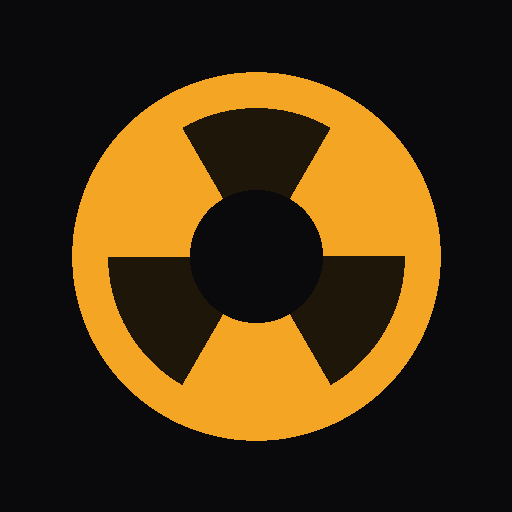
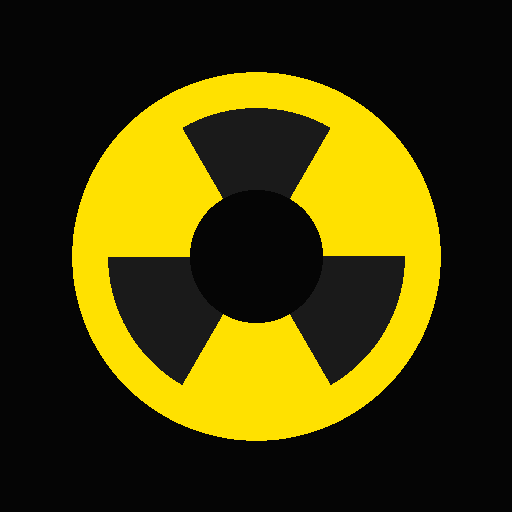
Refonte visuelle façon identité Nikon (noir + jaune, angles nets, typo technique)
Nouvelle identité visuelle sur tout le site, inspirée du langage de marque
Nikon plutôt que d'un style "app grand public" :
- Accent jaune Nikon (#ffe100) à la place de l'orange ambre, sur fond noir
  neutre plus profond (suppression de la dominante bleutée).
- Échelle de rayons resserrée (--radius-*) : cartes et boutons ont des
  angles nets plutôt qu'arrondis ; les badges/puces numérotées passent de
  pastilles rondes à des tags rectangulaires (sauf les cercles de flou de
  profondeur de champ du Triangle, qui restent ronds car ils représentent
  un vrai bokeh optique).
- Typo Oswald (condensée, majuscules, letter-spacing) pour tous les titres
  de section, en plus du fond Inter pour le corps de texte.
- Police monospace tabulaire (.font-readout) sur les valeurs d'ouverture/
  vitesse/ISO du Triangle et du Calculateur, pour un rendu façon afficheur
  de boîtier.
- Navigation refaite en barre technique : indicateur par soulignement/
  onglet au lieu de pastille pleine, labels en majuscules espacées.
- Repères d'angle façon cadre de viseur sur le hero de l'accueil.
- Icônes PWA régénérées avec la nouvelle palette.

Claude-Session: https://claude.ai/code/session_019rH7qcXGqkZ53xe7UJvZwY

Changed region(s): [[0.125, 0.125, 0.875, 0.875]]

diff --git a/src/index.css b/src/index.css
@@ -2,20 +2,34 @@
 
 @theme {
   --font-sans: "Inter", system-ui, "Segoe UI", Roboto, sans-serif;
-  --color-ink-950: #0a0a0d;
-  --color-ink-900: #111116;
-  --color-ink-850: #16171e;
-  --color-ink-800: #1c1d26;
-  --color-ink-700: #2a2b36;
-  --color-ink-600: #3d3f4d;
-  --color-ink-400: #7a7d90;
-  --color-ink-300: #a6a8b8;
-  --color-ink-100: #e8e8ee;
-  --color-amber-400: #f5a524;
-  --color-amber-500: #e8940f;
-  --color-signal-blue: #3b9dff;
+  --font-display: "Oswald", "Inter", system-ui, sans-serif;
+  --font-readout: ui-monospace, "SF Mono", "Cascadia Code", Consolas, monospace;
+
+  /* Noir neutre "boîtier", sans dominante bleutée */
+  --color-ink-950: #050505;
+  --color-ink-900: #0d0d0d;
+  --color-ink-850: #131313;
+  --color-ink-800: #1a1a1a;
+  --color-ink-700: #272727;
+  --color-ink-600: #3c3c3c;
+  --color-ink-400: #8c8c8c;
+  --color-ink-300: #adadad;
+  --color-ink-100: #f2f2f2;
+
+  /* Jaune Nikon — l'accent de marque */
+  --color-amber-400: #ffe100;
+  --color-amber-500: #e0c700;
+  --color-signal-blue: #2f8fe0;
   --color-signal-green: #34d399;
-  --color-signal-red: #f75353;
+  --color-signal-red: #e2001a;
+
+  /* Rayons resserrés : angles nets plutôt qu'arrondis "app grand public" */
+  --radius-sm: 0.0625rem;
+  --radius-md: 0.125rem;
+  --radius-lg: 0.1875rem;
+  --radius-xl: 0.25rem;
+  --radius-2xl: 0.3125rem;
+  --radius-3xl: 0.375rem;
 }
 
 html {
@@ -34,6 +48,17 @@ body {
   -webkit-tap-highlight-color: transparent;
 }
 
+h1 {
+  font-family: var(--font-display);
+}
+
+h2,
+h3 {
+  font-family: var(--font-display);
+  text-transform: uppercase;
+  letter-spacing: 0.01em;
+}
+
 ::selection {
   background: var(--color-amber-400);
   color: var(--color-ink-950);
@@ -47,30 +72,64 @@ body {
   scrollbar-width: none;
 }
 
+/* Lecture chiffrée façon afficheur de boîtier (ouverture / vitesse / ISO) */
+.font-readout {
+  font-family: var(--font-readout);
+  font-variant-numeric: tabular-nums;
+  letter-spacing: -0.02em;
+}
+
+/* Repères d'angle façon cadre de viseur */
+.viewfinder-corners {
+  position: relative;
+}
+.viewfinder-corners::before,
+.viewfinder-corners::after,
+.viewfinder-corners > .vf-tr,
+.viewfinder-corners > .vf-br {
+  content: "";
+  position: absolute;
+  width: 18px;
+  height: 18px;
+  border-color: var(--color-amber-400);
+  opacity: 0.8;
+}
+.viewfinder-corners::before {
+  top: -1px;
+  left: -1px;
+  border-top: 2px solid var(--color-amber-400);
+  border-left: 2px solid var(--color-amber-400);
+}
+.viewfinder-corners::after {
+  bottom: -1px;
+  right: -1px;
+  border-bottom: 2px solid var(--color-amber-400);
+  border-right: 2px solid var(--color-amber-400);
+}
+
 input[type="range"] {
   -webkit-appearance: none;
   appearance: none;
-  height: 6px;
-  border-radius: 999px;
+  height: 3px;
+  border-radius: 1px;
   background: var(--color-ink-700);
   outline: none;
 }
 input[type="range"]::-webkit-slider-thumb {
   -webkit-appearance: none;
   appearance: none;
-  width: 22px;
-  height: 22px;
-  border-radius: 999px;
+  width: 10px;
+  height: 24px;
+  border-radius: 2px;
   background: var(--color-amber-400);
-  border: 3px solid var(--color-ink-950);
-  box-shadow: 0 0 0 1px rgba(245, 165, 36, 0.5);
+  border: 1px solid var(--color-ink-950);
   cursor: pointer;
 }
 input[type="range"]::-moz-range-thumb {
-  width: 22px;
-  height: 22px;
-  border-radius: 999px;
+  width: 10px;
+  height: 24px;
+  border-radius: 2px;
   background: var(--color-amber-400);
-  border: 3px solid var(--color-ink-950);
+  border: 1px solid var(--color-ink-950);
   cursor: pointer;
 }

diff --git a/src/components/Layout.tsx b/src/components/Layout.tsx
@@ -12,25 +12,27 @@ const NAV_ITEMS = [
 
 function navLinkClass(isActive: boolean) {
   return [
-    "flex items-center gap-2 rounded-full px-4 py-2 text-sm font-medium transition-colors",
+    "relative flex items-center gap-2 border-b-2 px-3 py-2 text-xs font-semibold uppercase tracking-wider transition-colors",
     isActive
-      ? "bg-amber-400 text-ink-950"
-      : "text-ink-300 hover:text-ink-100 hover:bg-ink-800",
+      ? "border-amber-400 text-ink-100"
+      : "border-transparent text-ink-400 hover:border-ink-600 hover:text-ink-100",
   ].join(" ");
 }
 
 export default function Layout() {
   return (
     <div className="min-h-dvh flex flex-col bg-ink-950 text-ink-100">
-      <header className="sticky top-0 z-40 border-b border-ink-800/80 bg-ink-950/90 backdrop-blur">
+      <header className="sticky top-0 z-40 border-b border-ink-800 bg-ink-950/95 backdrop-blur">
         <div className="mx-auto flex max-w-6xl items-center justify-between gap-4 px-4 py-3 sm:px-6">
           <NavLink to="/" className="flex items-center gap-2.5 shrink-0">
-            <span className="grid h-9 w-9 place-items-center rounded-xl bg-amber-400 text-lg font-black text-ink-950">
+            <span className="grid h-9 w-9 place-items-center rounded-sm bg-amber-400 font-display text-lg font-bold text-ink-950">
               PB
             </span>
             <span className="hidden flex-col leading-tight sm:flex">
-              <span className="text-sm font-semibold text-ink-100">Photo by Bastien</span>
-              <span className="text-xs text-ink-400">Guide de réglages sur le terrain</span>
+              <span className="font-display text-sm font-semibold uppercase tracking-wide text-ink-100">
+                Photo by Bastien
+              </span>
+              <span className="text-[11px] text-ink-400">Guide de réglages sur le terrain</span>
             </span>
           </NavLink>
           <nav className="hidden items-center gap-1 md:flex">
@@ -53,7 +55,7 @@ export default function Layout() {
         <Outlet />
       </main>
 
-      <footer className="hidden border-t border-ink-800/80 py-6 text-center text-xs text-ink-400 md:block">
+      <footer className="hidden border-t border-ink-800 py-6 text-center text-xs text-ink-400 md:block">
         Photo by Bastien — repères de réglages, pas des lois de la physique. La lumière réelle varie toujours un peu.
       </footer>
 
@@ -69,8 +71,8 @@ export default function Layout() {
               end={item.end}
               className={({ isActive }) =>
                 [
-                  "flex flex-col items-center gap-0.5 px-0.5 py-2.5 text-[10px] font-medium",
-                  isActive ? "text-amber-400" : "text-ink-400",
+                  "relative flex flex-col items-center gap-0.5 border-t-2 px-0.5 py-2.5 text-[10px] font-medium",
+                  isActive ? "border-amber-400 text-amber-400" : "border-transparent text-ink-400",
                 ].join(" ")
               }
             >

diff --git a/src/pages/Calculator.tsx b/src/pages/Calculator.tsx
@@ -144,7 +144,7 @@ export default function Calculator() {
               key={opt.id}
               onClick={() => setSolveFor(opt.id)}
               className={[
-                "rounded-full px-4 py-2 text-sm font-medium transition",
+                "rounded-sm px-4 py-2 text-sm font-semibold uppercase tracking-wide transition",
                 solveFor === opt.id
                   ? "bg-amber-400 text-ink-950"
                   : "bg-ink-800 text-ink-300 hover:text-ink-100",
@@ -201,7 +201,7 @@ export default function Calculator() {
 
       <section className="rounded-2xl border border-amber-400/30 bg-amber-400/5 p-6">
         <h2 className="text-base font-semibold text-ink-100">Réglage recommandé</h2>
-        <p className="mt-2 text-2xl font-bold text-amber-400">
+        <p className="font-readout mt-2 text-2xl font-bold text-amber-400">
           {formatAperture(solveFor === "aperture" ? (result.value as number) : aperture)} ·{" "}
           {formatShutter(solveFor === "shutter" ? (result.value as number) : shutter)} ·{" "}
           {formatIso(solveFor === "iso" ? (result.value as number) : iso)}
@@ -253,12 +253,14 @@ function SliderCard({
       <div className="flex items-center justify-between">
         <h3 className="text-sm font-semibold text-ink-100">{title}</h3>
         {resultBadge && (
-          <span className="rounded-full bg-amber-400 px-2 py-0.5 text-[10px] font-bold uppercase text-ink-950">
+          <span className="rounded-sm bg-amber-400 px-2 py-0.5 text-[10px] font-bold uppercase text-ink-950">
             Calculé
           </span>
         )}
       </div>
-      <p className="text-2xl font-bold text-ink-100">{resultBadge ? resultValue : value}</p>
+      <p className="font-readout text-2xl font-bold text-ink-100">
+        {resultBadge ? resultValue : value}
+      </p>
       <input
         type="range"
         min={min}

diff --git a/src/components/CameraDiagram.tsx b/src/components/CameraDiagram.tsx
@@ -59,7 +59,7 @@ export default function CameraDiagram({ zone }: { zone: CameraZone }) {
             onClick={() => setActive(c.id)}
             style={{ left: `${c.x}%`, top: `${c.y}%` }}
             className={[
-              "absolute flex h-6 w-6 -translate-x-1/2 -translate-y-1/2 items-center justify-center rounded-full border text-[11px] font-bold transition",
+              "absolute flex h-6 w-6 -translate-x-1/2 -translate-y-1/2 items-center justify-center rounded-sm border text-[11px] font-bold transition",
               c.id === active
                 ? "border-amber-400 bg-amber-400 text-ink-950 scale-110"
                 : "border-ink-600 bg-ink-800 text-ink-200 hover:border-amber-400/60",
@@ -69,7 +69,7 @@ export default function CameraDiagram({ zone }: { zone: CameraZone }) {
             {i + 1}
           </button>
         ))}
-        <span className="absolute left-3 top-3 rounded-full bg-ink-950/80 px-2 py-0.5 text-[10px] font-semibold uppercase tracking-wide text-ink-400">
+        <span className="absolute left-3 top-3 rounded-sm bg-ink-950/80 px-2 py-0.5 text-[10px] font-semibold uppercase tracking-wide text-ink-400">
           {ZONE_TITLES[zone]} · schéma simplifié
         </span>
       </div>
@@ -93,7 +93,7 @@ export default function CameraDiagram({ zone }: { zone: CameraZone }) {
                 c.id === active ? "bg-ink-800 text-amber-400" : "text-ink-400 hover:text-ink-100",
               ].join(" ")}
             >
-              <span className="flex h-4 w-4 shrink-0 items-center justify-center rounded-full bg-ink-800 text-[10px] font-bold">
+              <span className="flex h-4 w-4 shrink-0 items-center justify-center rounded-sm bg-ink-800 text-[10px] font-bold">
                 {i + 1}
               </span>
               {c.label}

diff --git a/src/pages/Triangle.tsx b/src/pages/Triangle.tsx
@@ -74,7 +74,7 @@ export default function Triangle() {
         <div className="flex flex-col gap-4 rounded-2xl border border-ink-800 bg-ink-900 p-5">
           <div className="flex items-center justify-between">
             <h2 className="text-sm font-semibold text-ink-100">Ouverture (diaphragme)</h2>
-            <span className="rounded-full bg-ink-800 px-3 py-1 text-sm font-bold text-amber-400">
+            <span className="font-readout rounded-sm bg-ink-800 px-3 py-1 text-sm font-bold text-amber-400">
               {formatAperture(aperture)}
             </span>
           </div>
@@ -108,7 +108,7 @@ export default function Triangle() {
         <div className="flex flex-col gap-4 rounded-2xl border border-ink-800 bg-ink-900 p-5">
           <div className="flex items-center justify-between">
             <h2 className="text-sm font-semibold text-ink-100">Vitesse d'obturation</h2>
-            <span className="rounded-full bg-ink-800 px-3 py-1 text-sm font-bold text-amber-400">
+            <span className="font-readout rounded-sm bg-ink-800 px-3 py-1 text-sm font-bold text-amber-400">
               {formatShutter(shutter)}
             </span>
           </div>
@@ -148,7 +148,7 @@ export default function Triangle() {
         <div className="flex flex-col gap-4 rounded-2xl border border-ink-800 bg-ink-900 p-5">
           <div className="flex items-center justify-between">
             <h2 className="text-sm font-semibold text-ink-100">ISO (sensibilité)</h2>
-            <span className="rounded-full bg-ink-800 px-3 py-1 text-sm font-bold text-amber-400">
+            <span className="font-readout rounded-sm bg-ink-800 px-3 py-1 text-sm font-bold text-amber-400">
               {formatIso(iso)}
             </span>
           </div>

diff --git a/src/pages/Home.tsx b/src/pages/Home.tsx
@@ -31,8 +31,8 @@ const QUICK_LINKS = [
 export default function Home() {
   return (
     <div className="flex flex-col gap-14">
-      <section className="pt-4 sm:pt-10">
-        <p className="mb-3 inline-flex items-center gap-2 rounded-full bg-ink-800 px-3 py-1 text-xs font-medium text-amber-400">
+      <section className="viewfinder-corners pb-2 pl-5 pt-4 sm:pt-10">
+        <p className="mb-3 inline-flex items-center gap-2 rounded-sm bg-ink-800 px-3 py-1 text-xs font-semibold uppercase tracking-wider text-amber-400">
           Optimisé Nikon Z6III · utilisable hors ligne sur le terrain
         </p>
         <h1 className="max-w-2xl text-4xl font-bold tracking-tight text-ink-100 sm:text-5xl">
@@ -47,13 +47,13 @@ export default function Home() {
         <div className="mt-7 flex flex-wrap gap-3">
           <Link
             to="/debuter"
-            className="rounded-full bg-amber-400 px-6 py-3 text-sm font-semibold text-ink-950 transition hover:bg-amber-500"
+            className="rounded-sm bg-amber-400 px-6 py-3 text-sm font-bold uppercase tracking-wide text-ink-950 transition hover:bg-amber-500"
           >
             🧭 Je débute, guide-moi →
           </Link>
           <Link
             to="/calculateur"
-            className="rounded-full border border-ink-700 px-6 py-3 text-sm font-semibold text-ink-100 transition hover:border-ink-600 hover:bg-ink-800"
+            className="rounded-sm border border-ink-700 px-6 py-3 text-sm font-bold uppercase tracking-wide text-ink-100 transition hover:border-ink-600 hover:bg-ink-800"
           >
             Ouvrir le calculateur
           </Link>

diff --git a/src/pages/BeginnerGuide.tsx b/src/pages/BeginnerGuide.tsx
@@ -160,7 +160,7 @@ export default function BeginnerGuide() {
           />
           <Link
             to="/boitier"
-            className="inline-flex w-fit items-center gap-2 rounded-full bg-ink-800 px-4 py-2 text-xs font-semibold text-amber-400 hover:bg-ink-700"
+            className="inline-flex w-fit items-center gap-2 rounded-sm bg-ink-800 px-4 py-2 text-xs font-semibold text-amber-400 hover:bg-ink-700"
           >
             🎛 Voir où se trouve le sélecteur de mode et activer l'Auto ISO →
           </Link>
@@ -302,7 +302,7 @@ export default function BeginnerGuide() {
             { day: "Jour 7", text: "Mémoriser les commandes physiques avec le guide du boîtier, et combler les trous de vocabulaire avec le glossaire.", to: "/boitier" },
           ].map((item, i) => (
             <li key={i} className="flex gap-3 rounded-xl border border-ink-800 bg-ink-900 p-4">
-              <span className="flex h-8 w-8 shrink-0 items-center justify-center rounded-full bg-amber-400 text-xs font-bold text-ink-950">
+              <span className="flex h-8 w-8 shrink-0 items-center justify-center rounded-sm bg-amber-400 text-xs font-bold text-ink-950">
                 {i + 1}
               </span>
               <div>

diff --git a/src/pages/ScenarioDetail.tsx b/src/pages/ScenarioDetail.tsx
@@ -32,7 +32,7 @@ export default function ScenarioDetail() {
         </p>
         <Link
           to={calculatorLink}
-          className="mt-4 inline-flex items-center gap-2 rounded-full bg-amber-400 px-5 py-2.5 text-sm font-semibold text-ink-950 hover:bg-amber-500"
+          className="mt-4 inline-flex items-center gap-2 rounded-sm bg-amber-400 px-5 py-2.5 text-sm font-semibold text-ink-950 hover:bg-amber-500"
         >
           🧮 Ouvrir avec ces réglages préremplis
         </Link>
@@ -71,7 +71,7 @@ export default function ScenarioDetail() {
         <ol className="mt-4 flex flex-col gap-3">
           {scenario.steps.map((step, i) => (
             <li key={i} className="flex gap-3 text-sm leading-relaxed text-ink-300">
-              <span className="flex h-6 w-6 shrink-0 items-center justify-center rounded-full bg-amber-400 text-xs font-bold text-ink-950">
+              <span className="flex h-6 w-6 shrink-0 items-center justify-center rounded-sm bg-amber-400 text-xs font-bold text-ink-950">
                 {i + 1}
               </span>
               {step}

diff --git a/index.html b/index.html
@@ -5,10 +5,16 @@
     <link rel="icon" type="image/png" href="/icon-192.png" />
     <link rel="apple-touch-icon" href="/icon-192.png" />
     <meta name="viewport" content="width=device-width, initial-scale=1.0, viewport-fit=cover" />
-    <meta name="theme-color" content="#0a0a0d" />
+    <meta name="theme-color" content="#050505" />
     <meta
       name="description"
       content="Triangle d'exposition, calculateur de réglages et tutos photo par situation (portrait, rue, rallye auto, paysage, basse lumière), spécial Nikon Z6III."
+    />
+    <link rel="preconnect" href="https://fonts.googleapis.com" />
+    <link rel="preconnect" href="https://fonts.gstatic.com" crossorigin />
+    <link
+      href="https://fonts.googleapis.com/css2?family=Oswald:wght@500;600;700&display=swap"
+      rel="stylesheet"
     />
     <title>Photo by Bastien — Guide de réglages</title>
   </head>

diff --git a/src/components/StepList.tsx b/src/components/StepList.tsx
@@ -3,7 +3,7 @@ export default function StepList({ steps }: { steps: string[] }) {
     <ol className="flex flex-col gap-3">
       {steps.map((step, i) => (
         <li key={i} className="flex gap-3 text-sm leading-relaxed text-ink-300">
-          <span className="flex h-6 w-6 shrink-0 items-center justify-center rounded-full bg-amber-400 text-xs font-bold text-ink-950">
+          <span className="flex h-6 w-6 shrink-0 items-center justify-center rounded-sm bg-amber-400 text-xs font-bold text-ink-950">
             {i + 1}
           </span>
           <span>{step}</span>

diff --git a/src/pages/NotFound.tsx b/src/pages/NotFound.tsx
@@ -6,7 +6,7 @@ export default function NotFound() {
       <span className="text-4xl">📷💨</span>
       <h1 className="text-2xl font-bold text-ink-100">Page introuvable</h1>
       <p className="text-sm text-ink-400">Cette page n'existe pas (ou a été mal cadrée).</p>
-      <Link to="/" className="rounded-full bg-amber-400 px-5 py-2.5 text-sm font-semibold text-ink-950">
+      <Link to="/" className="rounded-sm bg-amber-400 px-5 py-2.5 text-sm font-semibold text-ink-950">
         Retour à l'accueil
       </Link>
     </div>

diff --git a/src/components/MenuPathCard.tsx b/src/components/MenuPathCard.tsx
@@ -8,7 +8,7 @@ export default function MenuPathCard({ entry }: { entry: MenuPathEntry }) {
         {!entry.verified && (
           <span
             title="Libellé indicatif, à confirmer avec le manuel officiel"
-            className="shrink-0 rounded-full bg-ink-800 px-2 py-0.5 text-[10px] font-medium text-ink-500"
+            className="shrink-0 rounded-sm bg-ink-800 px-2 py-0.5 text-[10px] font-medium text-ink-500"
           >
             à vérifier
           </span>
